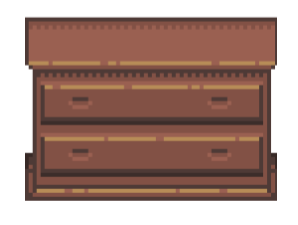
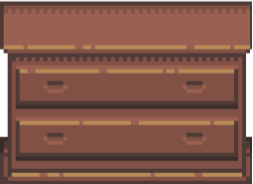
cropped everything

diff --git a/templates/instructions.html b/templates/instructions.html
@@ -6,16 +6,16 @@
   </head>
   <body>
     <div id="instruction">
+      <h1>Background Story</h1>
+      <p>Grace has been kidnapped in her sleep and locked in an unknown room.</p>
+      <p>Gather the clues to discover who the culprit is and escape the room!</p>
       <h1>Controls</h1>
-      <p>Use the up arrow to move forward.</p>
-      <p>Use the down arrow to move back.</p>
-      <p>Use the left arrow to move left.</p>
-      <p>Use the right arrow to move right.</p>
+      <p>Use the arrow keys to move forward, back, left and right.</p>
       <p>Use the spacebar to interact with objects in the room.</p>
       <h1>Instructions</h1>
       <p>The purpose of this game is to gather the objects, solve the puzzle and escape the room as quickly as you can.</p>
       <p>Walk around the room and interact with objects to find the clues that will help you solve the puzzle.</p>
-      <p>Once you solve the puzzle, you will understand the secret of the room and be able to escape.</p>
+      <p>Once you solve the puzzle, you will be able to escape.</p>
       <form action='/' method=get>
         <button type="submit">Back</button>
       </form>

diff --git a/README.md b/README.md
@@ -2,4 +2,12 @@ Welcome to Escape the Room!
 
 Will update readme when the game is finished!
 
+Image Credits:
+
+- Sithjester
+- https://opengameart.org/node/11950
+- http://ayene-chan.deviantart.com/art/RPG-Maker-Tiles-II-261010059
+- https://thestoryteller01.files.wordpress.com/2014/08/vx-interior-tileset1.png
+- Lanea Zimmerman
+
 # Escape-the-Room
